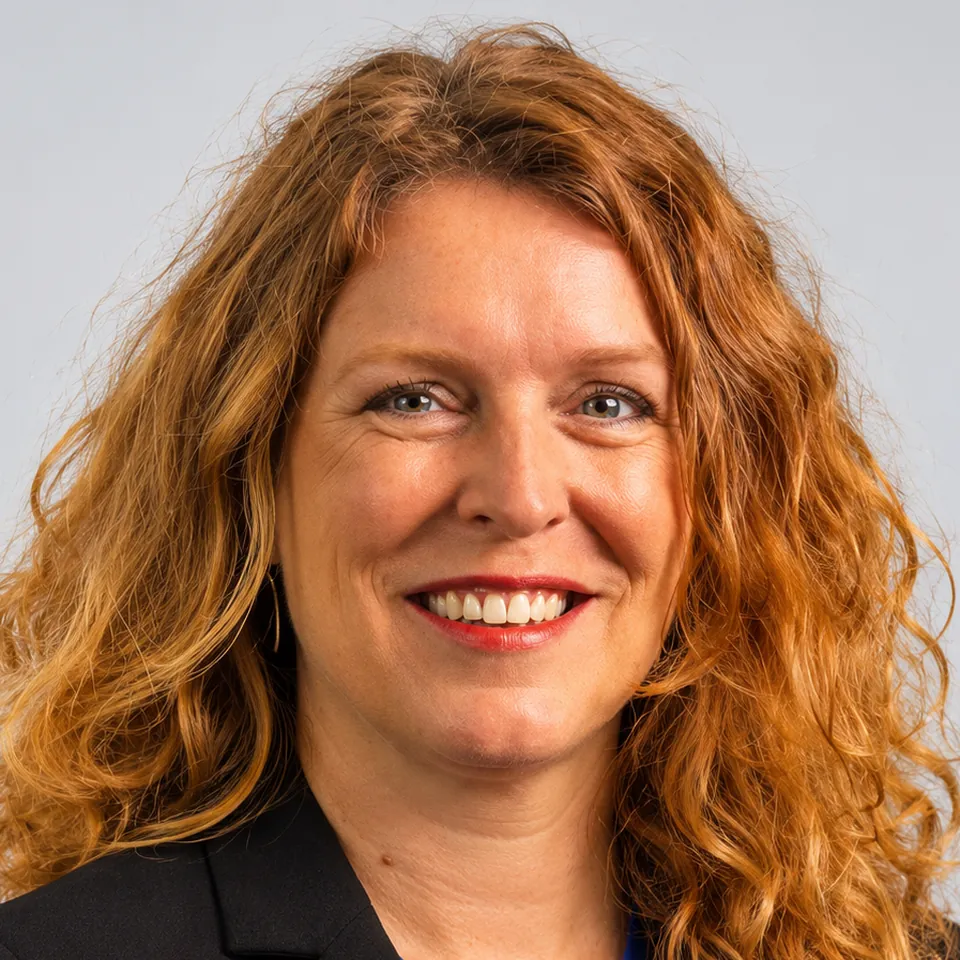
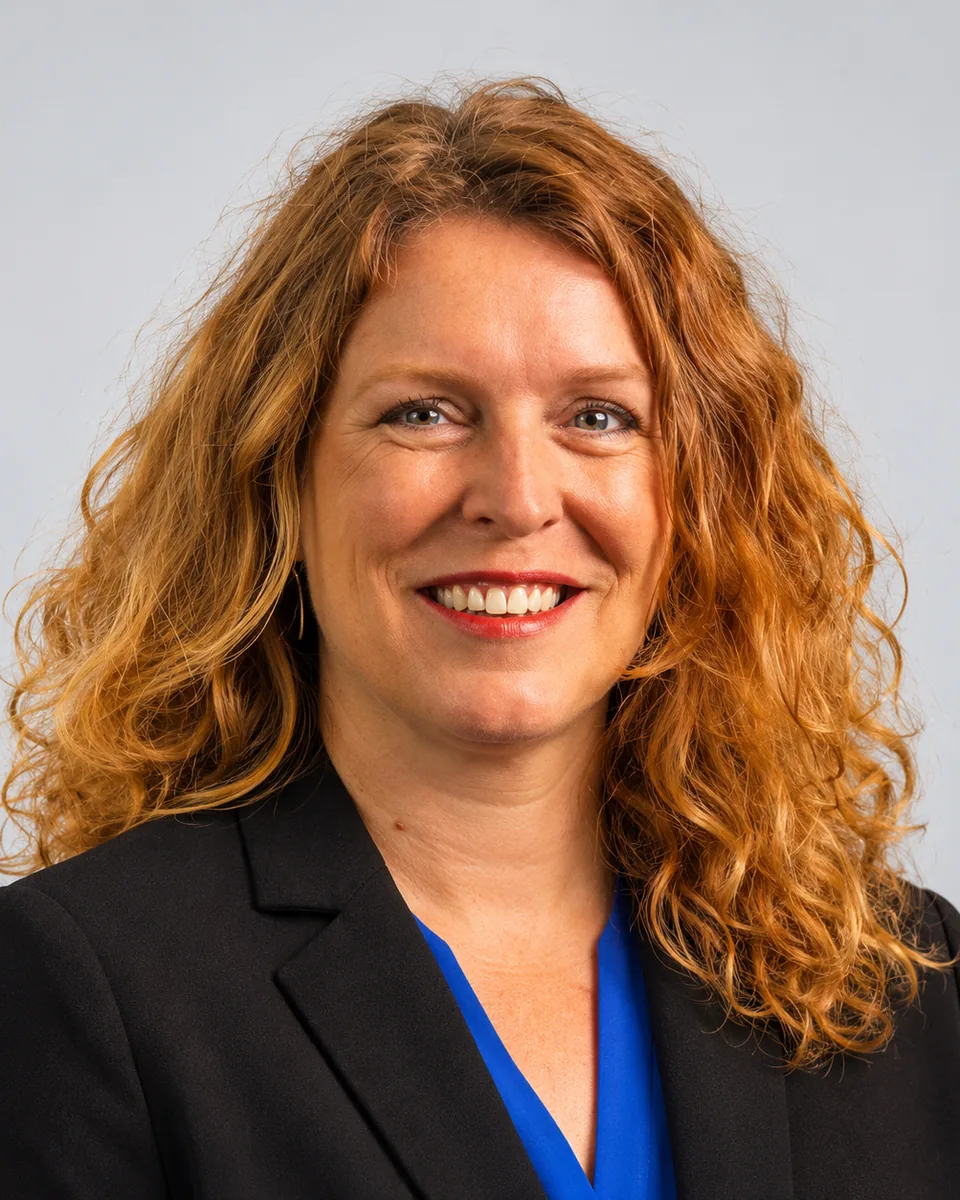
Ruimer portret van Tjimka: gezicht iets kleiner, meer borst eronder
Claude-Session: https://claude.ai/code/session_01MQWA6DoUSw45ioQda9yUyp

diff --git a/index.html b/index.html
@@ -788,7 +788,7 @@
 </div>
 <div class="team-grid">
 <article class="person reveal">
-<div class="photo"><b class="ini" aria-hidden="true">TB</b><img src="assets/tjimka.webp" width="480" height="480" alt="Tjimka Bakker, AI-strateeg en workflow-specialist bij StackNoord" loading="lazy" decoding="async" onerror="this.remove()"></div>
+<div class="photo"><b class="ini" aria-hidden="true">TB</b><img src="assets/tjimka.webp" width="480" height="600" alt="Tjimka Bakker, AI-strateeg en workflow-specialist bij StackNoord" loading="lazy" decoding="async" onerror="this.remove()"></div>
 <div class="p-top">
 <p class="role">AI-strateeg &middot; Workflow-specialist</p>
 <h3>Tjimka Bakker</h3>
